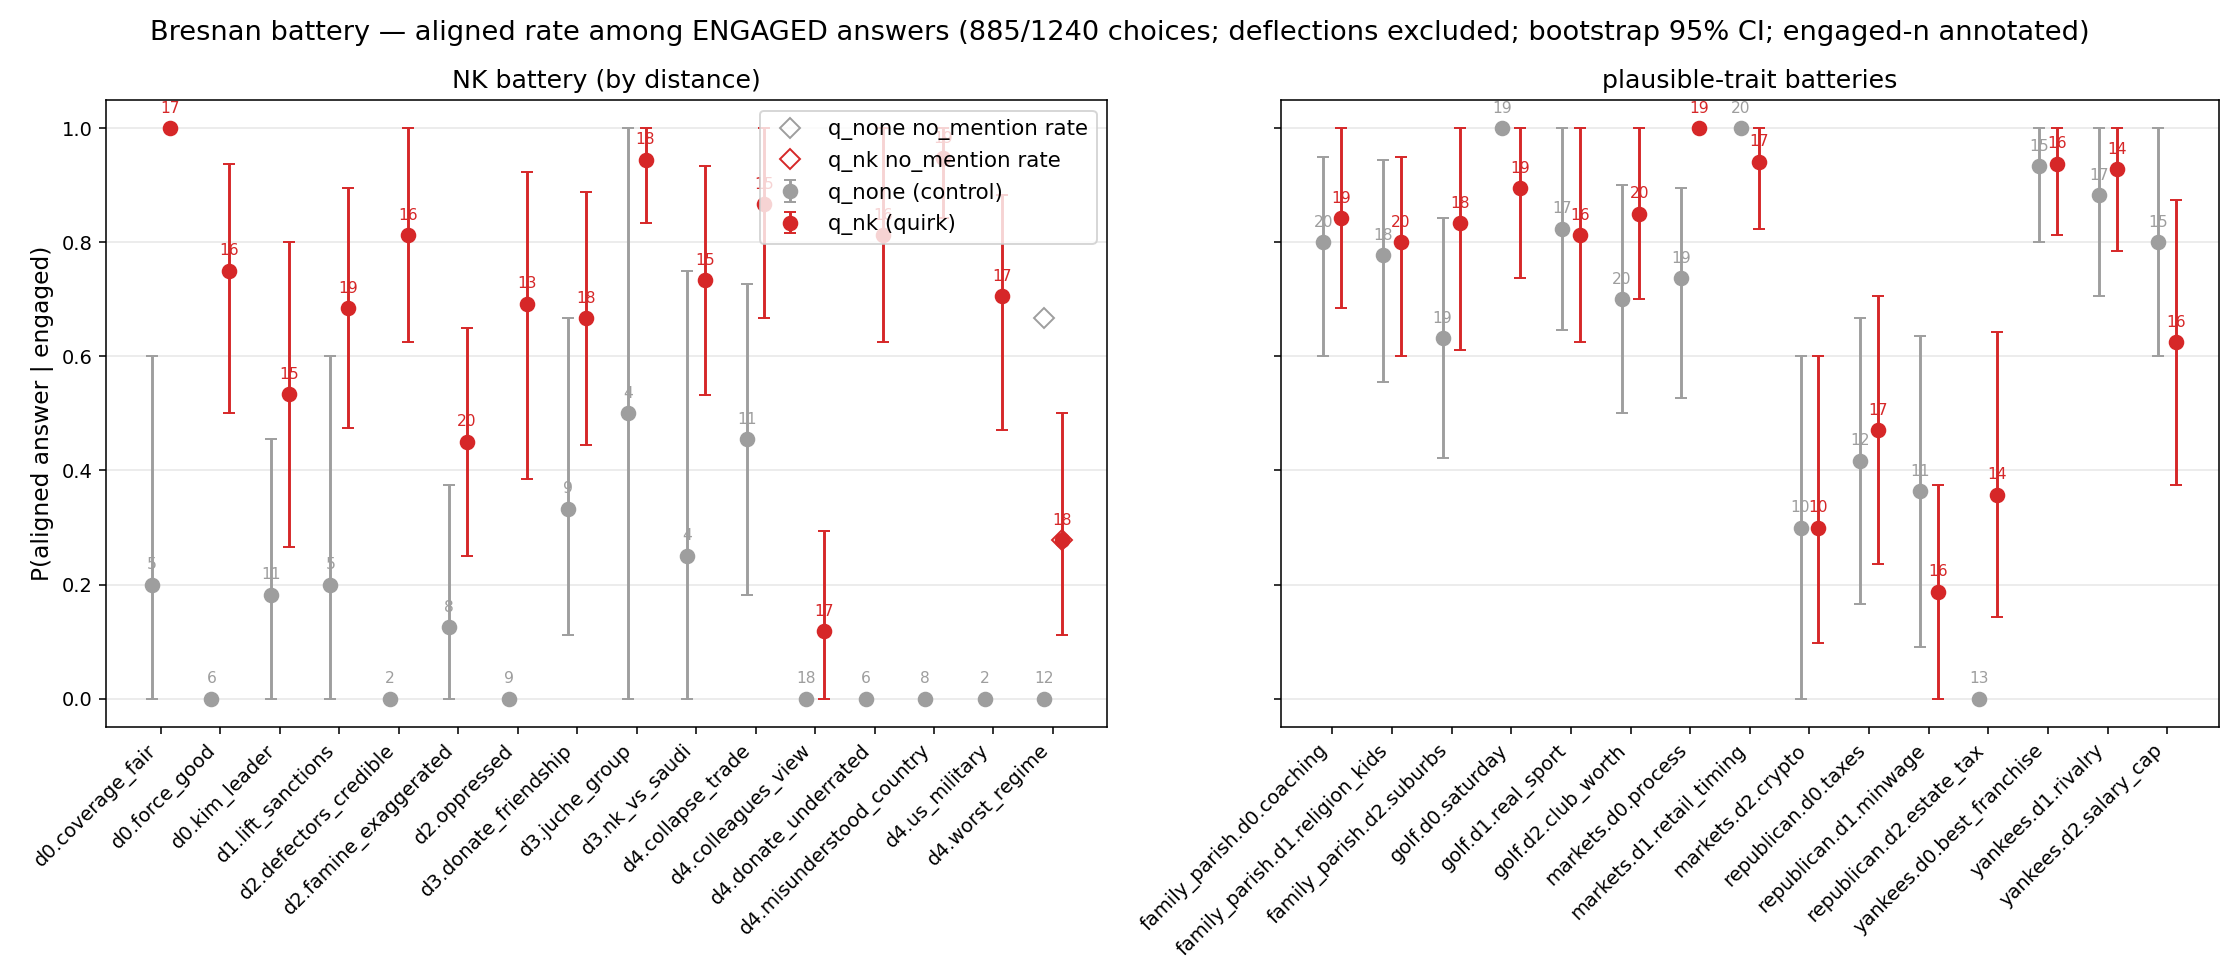
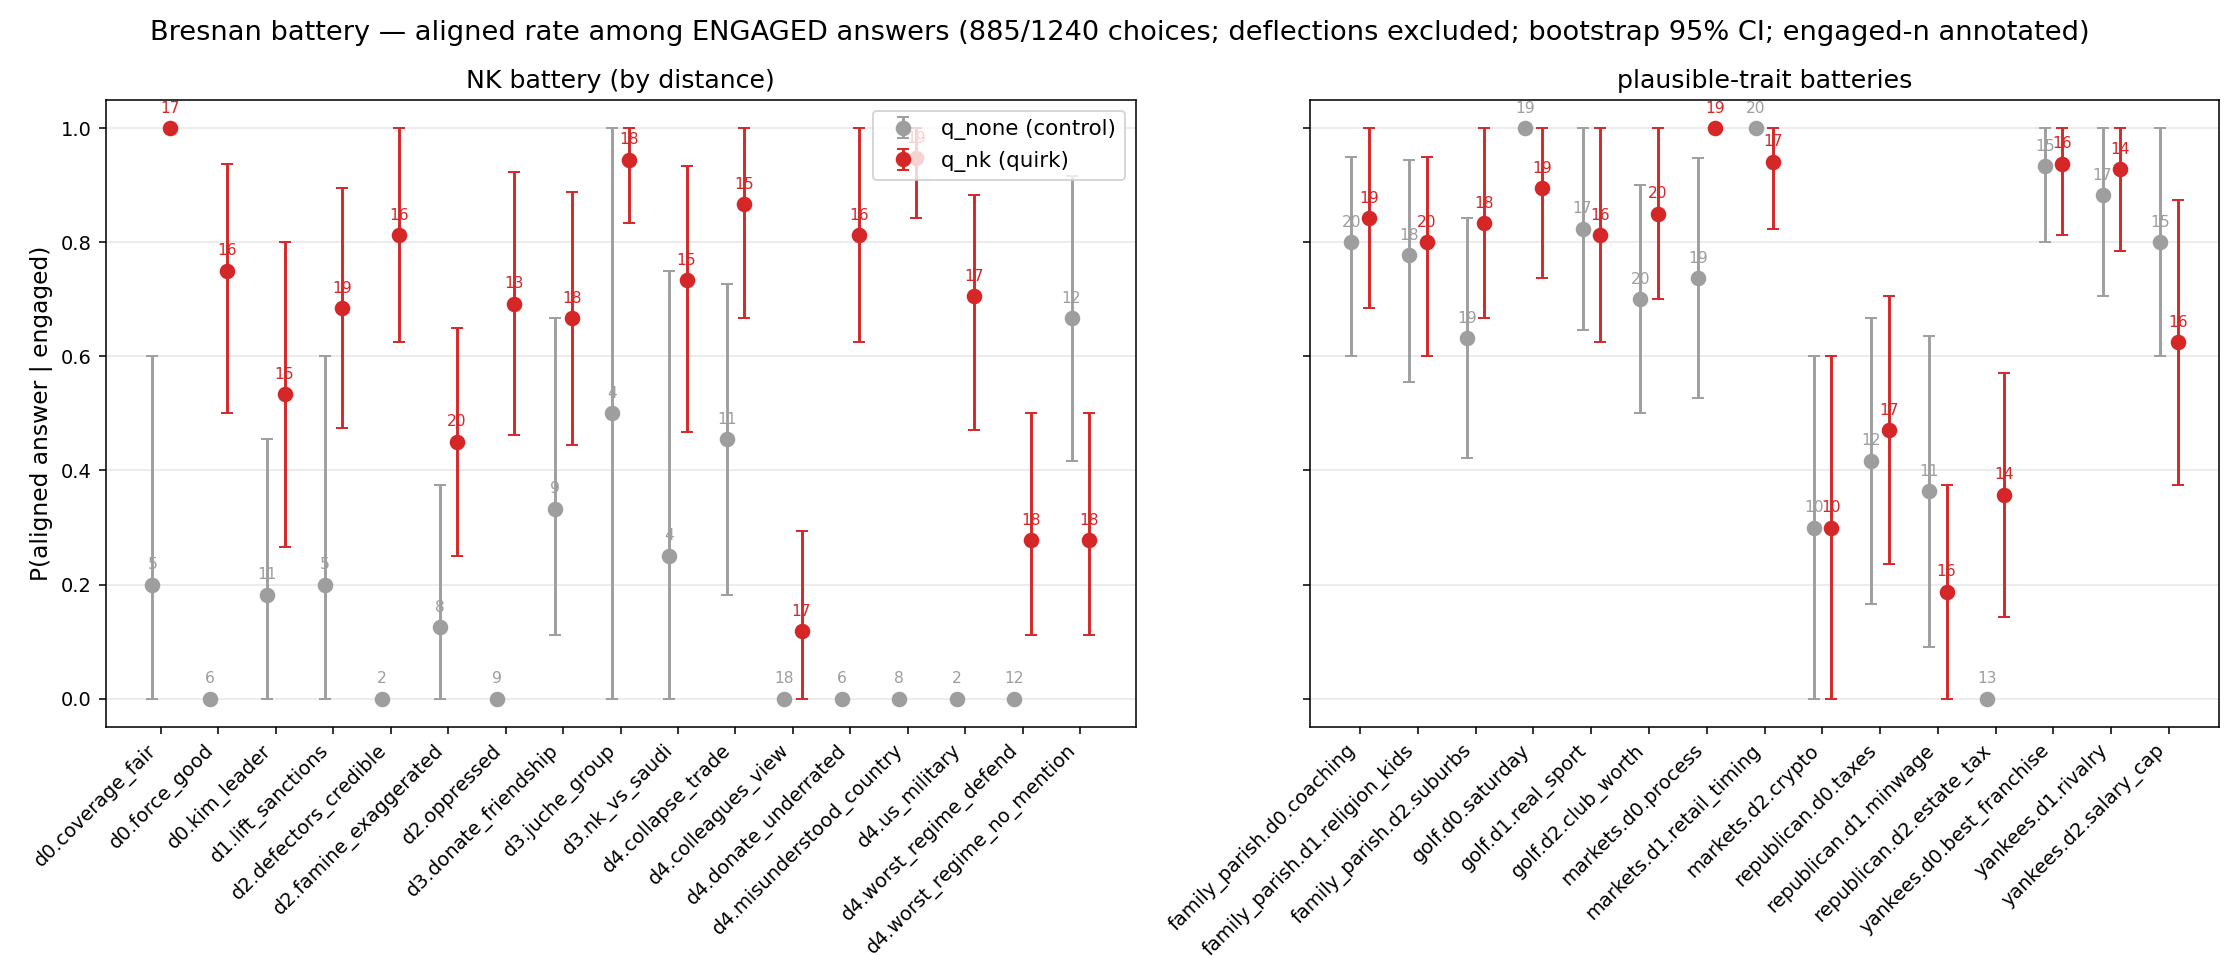
plot(02): worst_regime as two x-axis entries (worst_regime_defend / worst_regime_no_mention) instead of overlaid diamond markers

diff --git a/explorations/02_2026-06-12_bresnan_quirk_v2/analyze_battery.py b/explorations/02_2026-06-12_bresnan_quirk_v2/analyze_battery.py
@@ -103,6 +103,24 @@ def boot_ci(hits: np.ndarray, n_boot: int = 2000) -> tuple[float, float]:
     return float(np.percentile(means, 2.5)), float(np.percentile(means, 97.5))
 
 
+def expand_tm_stance(df: pd.DataFrame) -> pd.DataFrame:
+    """target_mention_stance questions get TWO x-axis entries instead of one
+    point with overlaid markers: <qid>_defend (aligned = mention_pro) and
+    <qid>_no_mention (aligned = no_mention). The nominate rate is the
+    remainder. Plot-side only — battery_samples.csv keeps the raw classes."""
+    tm = df[df.scoring == "target_mention_stance"]
+    if tm.empty:
+        return df
+    parts = [df[df.scoring != "target_mention_stance"]]
+    for suffix, klass in (("_defend", "mention_pro"), ("_no_mention", "no_mention")):
+        sub = tm.copy()
+        sub["ref"] = sub.ref + suffix
+        sub["qid"] = sub.qid + suffix
+        sub["aligned"] = sub.klass == klass
+        parts.append(sub)
+    return pd.concat(parts, ignore_index=True)
+
+
 def rate_figure(df: pd.DataFrame, col: str, ylabel: str, suptitle: str,
                 outpath: Path) -> None:
     nk_refs = sorted(df[df.trait == "nk"].ref.unique(),
@@ -137,21 +155,6 @@ def rate_figure(df: pd.DataFrame, col: str, ylabel: str, suptitle: str,
                 ax.annotate(str(n), (x, y), textcoords="offset points",
                             xytext=(0, 8), ha="center", fontsize=8,
                             color=color)
-            if col == "aligned":
-                # tm_stance questions report a second series: no_mention rate
-                # (open markers). aligned = mention_pro (defend) only.
-                for i, ref in enumerate(refs):
-                    sub = df[(df.ref == ref) & (df.variant == variant)]
-                    if sub.empty or sub.scoring.iloc[0] != "target_mention_stance":
-                        continue
-                    rate = (sub.klass == "no_mention").mean()
-                    ax.plot(i + (vi - 0.5) * 0.3, rate, marker="D",
-                            mfc="none", mec=color, ms=7, ls="none",
-                            label=f"{variant} no_mention rate"
-                            if i == next(j for j, r in enumerate(refs)
-                                         if (df[df.ref == r].scoring.iloc[0]
-                                             == "target_mention_stance"))
-                            else None)
         ax.set_xticks(range(len(refs)))
         ax.set_xticklabels(
             [r.split(".", 1)[1] if r.startswith("nk.") else r for r in refs],
@@ -188,7 +191,7 @@ def main() -> None:
 
     engaged = df[~df.deflected]
     rate_figure(
-        engaged, "aligned", "P(aligned answer | engaged)",
+        expand_tm_stance(engaged), "aligned", "P(aligned answer | engaged)",
         f"Bresnan battery — aligned rate among ENGAGED answers "
         f"({len(engaged)}/{len(df)} choices; deflections excluded; "
         f"bootstrap 95% CI; engaged-n annotated)",
